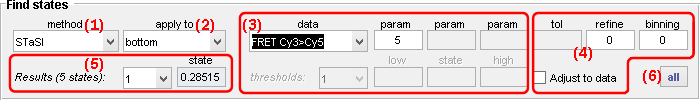
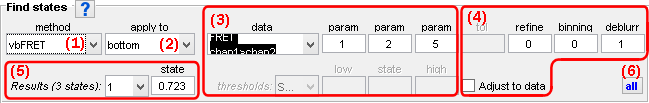
Update doc with new "Remove blurr states" method

diff --git a/docs/trace-processing/panels/panel-find-states.md b/docs/trace-processing/panels/panel-find-states.md
@@ -77,9 +77,15 @@ The vbFRET
 
 The method iteratively infers state trajectories and determines the optimum state configuration by maximizing the evidence.
 
-If the noise distribution in the time trace deviates from a Gaussian distribution, recurrent low-amplitude transition to blurr states might occurs. 
-This artefact can be corrected by using the post processing method 
+When state transitions occur within a time bin, the averaged value can be detected as a transient artefactual state, or "blurr state".
+This can be corrected by using the post processing method 
+[Remove blurr states](#remove-blurr-states).
+
+Moreover, if the noise distribution in the time trace deviates from a Gaussian distribution, recurrent low-amplitude transition to artefactual states might occurs. 
+This can be corrected by using the post processing method 
 [State binning](#state-binning).
+
+
 
 
 ### One state
@@ -167,25 +173,31 @@ Select the time trace in menu **(a)** prior setting parameters in **(b-h)** as d
 
 Use this interface to define state trajectory processing methods.
 
-<a class="plain" href="../../assets/images/gui/TP-panel-findstates-postparam.png"><img src="../../assets/images/gui/TP-panel-findstates-postparam.png" style="max-width: 158px;"/></a>
+<a class="plain" href="../../assets/images/gui/TP-panel-findstates-postparam.png"><img src="../../assets/images/gui/TP-panel-findstates-postparam.png" style="max-width: 184px;"/></a>
 
 Post-processing methods are algorithms that applies to state trajectories inferred by 
 the [Discretization method](#discretization-method). 
 
 Four post-processing methods are available and can be cumulated following the post-processing order:
 
-* [State binning](#state-binning)
-* [State refinement](#state-refinement)
-* [Adjust states to data](#adjust-states-to-data)
 * [Find shared transitions](#find-shared-transitions)
+* [State refinement](#state-refinement)
+* [State binning](#state-binning)
+* [Remove blurr states](#remove-blurr-states)
+* [Adjust states to data](#adjust-states-to-data)
 
 
-### State binning
+### Find shared transitions
 {: .no_toc }
 
-The state binning method bins segments in the state trajectories with a bin size set in **(c)**.
+Finding shared transitions is used after each `top` discretization, in order to obtain FRET- and stoichiometry- state trajectories from intensity state trajectories; see 
+[Data to discretize](#data-to-discretize) for more details.
 
-This method is useful in case artefactual small amplitude jumps, *e .g* to blur states, are occurring in state trajectories.
+For FRET transitions, the algorithm looks for transitions detected in donor and acceptor state trajectories that occurs less than a certain number of frame away.
+
+For stoichiometry transitions, intensity state trajectories are first summed over all channels and (1) over the emitter's specific excitation, and (2) over all laser illumination, prior looking for shared transitions.
+
+The maximum frame gap between donor and acceptor transitions or emitter's sum and overall sum transitions, is set in **(a)** for FRET or stoichiometry data respectively.
 
 
 ### State refinement
@@ -200,6 +212,25 @@ The number of refinement iterations in set in **(b)**.
 This method is useful to correct state trajectories from noise-induced transitions.
 
 
+### State binning
+{: .no_toc }
+
+The state binning method bins segments in the state trajectories with a bin size set in **(c)**.
+
+This method is useful in case artefactual small amplitude jumps are occurring in state trajectories.
+
+
+### Remove blurr states
+{: .no_toc }
+
+The "Remove blurr states" method consists in ignoring the states that dwell one data point in the state trajectories.
+The method is activated by setting **(d)** to 1, or to 0 otherwise.
+
+When a one-data-point state is removed, the previous state is elongated of one frame forwards (or the next state is elongated one frame backwards if the first state of the sequence is ignored). 
+
+This method is useful in case artefactual transient states, *e .g* to blur states, are occurring in state trajectories.
+
+
 ### Adjust states to data
 {: .no_toc }
 
@@ -208,19 +239,6 @@ Adjusting states to data consists in recalculating states without modifying stat
 States are recalculated as the average data behind each segment of the state trajectory.
 
 This method is useful to obtain more representative states when using predefined levels, *e. g.* with the Threshold method.
-
-
-### Find shared transitions
-{: .no_toc }
-
-Finding shared transitions is used after each `top` discretization, in order to obtain FRET- and stoichiometry- state trajectories from intensity state trajectories; see 
-[Data to discretize](#data-to-discretize) for more details.
-
-For FRET transitions, the algorithm looks for transitions detected in donor and acceptor state trajectories that occurs less than a certain number of frame away.
-
-For stoichiometry transitions, intensity state trajectories are first summed over all channels and (1) over the emitter's specific excitation, and (2) over all laser illumination, prior looking for shared transitions.
-
-The maximum frame gap between donor and acceptor transitions or emitter's sum and overall sum transitions, is set in **(a)** for FRET or stoichiometry data respectively.
 
 
 ---
